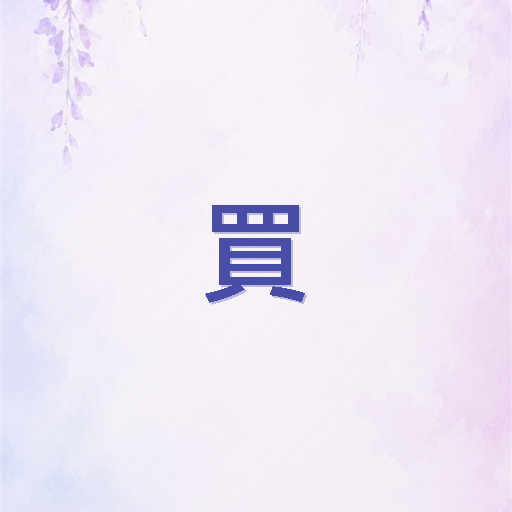
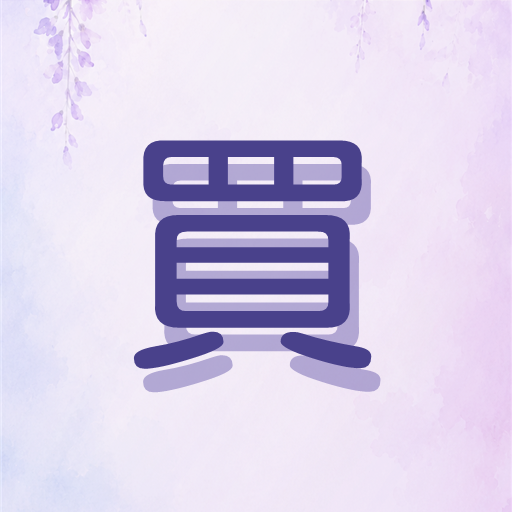
Add custom font and clock helpers

Changed region(s): [[0.25, 0.25, 0.75, 0.7812]]

diff --git a/app.js b/app.js
@@ -36,6 +36,9 @@ const cancelReminderButton = document.querySelector("#cancelReminderButton");
 const reminderSummary = document.querySelector("#reminderSummary");
 const reminderList = document.querySelector("#reminderList");
 const notificationStatus = document.querySelector("#notificationStatus");
+const clockHelperText = document.querySelector("#clockHelperText");
+const openTimerButton = document.querySelector("#openTimerButton");
+const openClockButton = document.querySelector("#openClockButton");
 const appAlert = document.querySelector("#appAlert");
 const appAlertTitle = document.querySelector("#appAlertTitle");
 const appAlertBody = document.querySelector("#appAlertBody");
@@ -49,6 +52,7 @@ let alertTimer;
 let recognition;
 let isListening = false;
 let serviceWorkerRegistration;
+let selectedReminderMinutes = 30;
 
 function loadItems() {
   try {
@@ -296,6 +300,10 @@ function formatReminderLabel(minutes) {
   return `${minutes} 分鐘`;
 }
 
+function reminderSeconds(minutes = selectedReminderMinutes) {
+  return minutes * 60;
+}
+
 function reminderMessage() {
   const remainingItems = activeItems();
   if (!remainingItems.length) return "目前沒有未買項目，可以安心收工。";
@@ -358,6 +366,7 @@ function openReminderModal() {
     reminderList.append(row);
   });
 
+  clockHelperText.textContent = `想更穩，可以順手用手機時鐘設 ${formatReminderLabel(selectedReminderMinutes)} 倒數。`;
   reminderModal.hidden = false;
   closeReminderButton.focus();
 }
@@ -367,6 +376,7 @@ function closeReminderModal() {
 }
 
 async function setReminder(minutes) {
+  selectedReminderMinutes = minutes;
   const browserNotificationReady = await requestNotificationPermission();
   const message = reminderMessage();
   const dueAt = Date.now() + minutes * 60 * 1000;
@@ -386,6 +396,34 @@ async function setReminder(minutes) {
   } else {
     refreshNotificationStatus();
   }
+}
+
+function openAndroidIntent(intentUrl, fallbackMessage) {
+  try {
+    window.location.href = intentUrl;
+  } catch {
+    showToast(fallbackMessage);
+  }
+
+  setTimeout(() => {
+    showAppAlert("手機時鐘提醒", fallbackMessage);
+  }, 700);
+}
+
+function openTimerApp() {
+  const label = formatReminderLabel(selectedReminderMinutes);
+  const message = `請在手機時鐘裡設 ${label} 倒數。`;
+  const seconds = reminderSeconds();
+  const encodedMessage = encodeURIComponent("買買買提醒");
+  const intentUrl = `intent:#Intent;action=android.intent.action.SET_TIMER;S.android.intent.extra.alarm.MESSAGE=${encodedMessage};i.android.intent.extra.alarm.LENGTH=${seconds};B.android.intent.extra.alarm.SKIP_UI=false;end`;
+  openAndroidIntent(intentUrl, message);
+}
+
+function openClockApp() {
+  const label = formatReminderLabel(selectedReminderMinutes);
+  const message = `請在手機時鐘裡設 ${label} 倒數。`;
+  const intentUrl = "intent:#Intent;action=android.intent.action.SHOW_ALARMS;end";
+  openAndroidIntent(intentUrl, message);
 }
 
 function cancelReminder() {
@@ -514,9 +552,15 @@ reminderModal.addEventListener("click", (event) => {
 
 document.querySelectorAll("[data-remind-minutes]").forEach((button) => {
   button.addEventListener("click", () => {
-    setReminder(Number(button.dataset.remindMinutes));
+    const minutes = Number(button.dataset.remindMinutes);
+    selectedReminderMinutes = minutes;
+    setReminder(minutes);
   });
 });
+
+openTimerButton.addEventListener("click", openTimerApp);
+
+openClockButton.addEventListener("click", openClockApp);
 
 quickForm.addEventListener("submit", (event) => {
   event.preventDefault();

diff --git a/styles.css b/styles.css
@@ -1,3 +1,11 @@
+@font-face {
+  font-display: swap;
+  font-family: "OpenHuninn";
+  font-style: normal;
+  font-weight: 400 900;
+  src: url("assets/fonts/jf-openhuninn-2.1.ttf") format("truetype");
+}
+
 :root {
   color-scheme: light;
   --bg: #edf6ff;
@@ -20,7 +28,7 @@
   --panel-border-pattern:
     repeating-linear-gradient(45deg, rgba(105, 72, 190, 0.34) 0 9px, transparent 9px 18px),
     repeating-linear-gradient(-45deg, rgba(65, 151, 224, 0.36) 0 8px, transparent 8px 18px);
-  font-family: "Microsoft JhengHei", "PingFang TC", "Noto Sans TC", Arial, sans-serif;
+  font-family: "OpenHuninn", "Microsoft JhengHei", "PingFang TC", "Noto Sans TC", Arial, sans-serif;
 }
 
 * {
@@ -570,6 +578,37 @@ body.large-text .item-check {
   font-size: 0.92rem;
   font-weight: 800;
   line-height: 1.35;
+}
+
+.clock-helper {
+  display: grid;
+  gap: 10px;
+  margin: 0 0 14px;
+  border-radius: 8px;
+  padding: 12px;
+  background: rgba(255, 255, 255, 0.58);
+}
+
+.clock-helper-text {
+  color: var(--muted);
+  font-size: 0.95rem;
+  font-weight: 900;
+  line-height: 1.35;
+}
+
+.clock-helper-actions {
+  display: grid;
+  grid-template-columns: repeat(2, minmax(0, 1fr));
+  gap: 10px;
+}
+
+.clock-helper-actions button {
+  min-height: 48px;
+  border: 0;
+  border-radius: 8px;
+  background: linear-gradient(135deg, #f0e9ff, #e5f4ff);
+  color: var(--accent-dark);
+  font-weight: 900;
 }
 
 .reminder-list {

diff --git a/index.html b/index.html
@@ -78,6 +78,13 @@
         <p class="reminder-summary" id="reminderSummary">目前沒有未買項目。</p>
         <ul class="reminder-list" id="reminderList"></ul>
         <p class="reminder-note" id="notificationStatus">安裝成 App 後，Android Chrome 通知會更穩。</p>
+        <div class="clock-helper">
+          <div class="clock-helper-text" id="clockHelperText">想更穩，可以順手用手機時鐘設倒數。</div>
+          <div class="clock-helper-actions">
+            <button type="button" id="openTimerButton">打開倒數</button>
+            <button type="button" id="openClockButton">打開時鐘</button>
+          </div>
+        </div>
         <div class="reminder-actions">
           <button type="button" data-remind-minutes="30">30 分鐘</button>
           <button type="button" data-remind-minutes="60">1 小時</button>

diff --git a/sw.js b/sw.js
@@ -1,4 +1,4 @@
-const CACHE_NAME = "buy-buy-buy-v2";
+const CACHE_NAME = "buy-buy-buy-v3";
 const APP_SHELL = [
   "./",
   "./index.html",
@@ -7,7 +7,8 @@ const APP_SHELL = [
   "./manifest.webmanifest",
   "./assets/wisteria-bg.png",
   "./assets/icon-192.png",
-  "./assets/icon-512.png"
+  "./assets/icon-512.png",
+  "./assets/fonts/jf-openhuninn-2.1.ttf"
 ];
 
 self.addEventListener("install", (event) => {